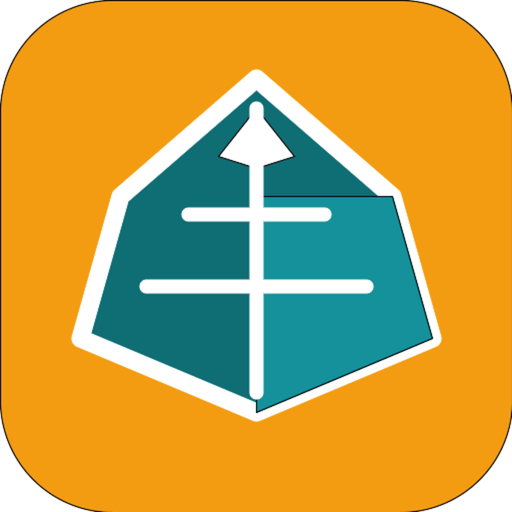
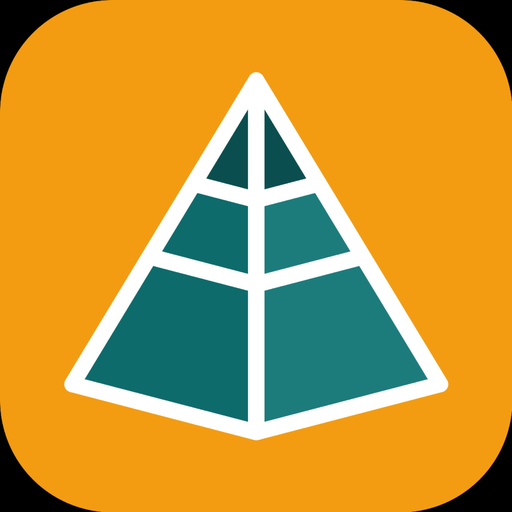
Show the official pyramid on every ground and unclip the phone header.
Tiles match the night, paper, teal, orange, and outline marks. Header no longer paints a second dark chip over the white stroke. Desk pages hide the marketing nav on a phone so Sign in, Auto, and the tab bar stay tappable.

diff --git a/ui-fix.css b/ui-fix.css
@@ -716,11 +716,12 @@ header .site-nav a {
 header .brand-mark,
 .site-header .brand-mark,
 #desk-nav .brand-mark {
-  object-fit: contain !important;
-  background: #083838 !important;
-  box-shadow: 0 0 0 1px rgba(255,255,255,.7) !important;
+  object-fit: cover !important;
+  background: transparent !important;
+  box-shadow: none !important;
   border-radius: 22% !important;
 }
+/* Official tile already has its ground. A second dark chip hid the white stroke. */
 @media (max-width: 859px) {
   header,
   .site-header {
@@ -736,3 +737,57 @@ header .brand-mark,
     border: 1px solid rgba(255,255,255,.55) !important;
   }
 }
+
+
+/* 2026-10-07 phone + desktop visibility and tap pass */
+header nav.site-nav,
+header .nav.site-nav {
+  flex-wrap: nowrap !important;
+  overflow-x: auto !important;
+  scrollbar-width: none;
+}
+header nav.site-nav::-webkit-scrollbar { display: none; }
+@media (max-width: 859px) {
+  body.has-desk-nav header nav.site-nav,
+  body.has-desk-nav header .nav.site-nav,
+  body:has(#desk-nav) header nav.site-nav {
+    display: none !important;
+  }
+  body.has-desk-nav header,
+  body:has(#desk-nav) header {
+    grid-template-areas: "brand tools" !important;
+    grid-template-rows: auto !important;
+  }
+  header nav.site-nav a,
+  header .site-nav a {
+    flex: 0 0 auto !important;
+    min-height: 44px !important;
+    color: #fff !important;
+  }
+  .who-chip, header .theme-btn {
+    position: relative;
+    z-index: 5;
+  }
+  #desk-nav a, #desk-nav button {
+    color: #e8ffff !important;
+    font-size: 12px !important;
+    min-width: 0;
+  }
+  #desk-nav {
+    padding-bottom: env(safe-area-inset-bottom, 0px);
+  }
+}
+img.aia-mark[data-mark="outline"],
+img.brand-mark[data-mark="outline"] {
+  background: #fff !important;
+}
+button.go, a.go, .go, a.primary, button.primary, .use {
+  color: #0c1116 !important;
+}
+html.dark .card, html.dark .item, html.dark .sheet-card {
+  color: #f3f7f8;
+}
+.sheet, .modal, [role="dialog"] {
+  max-width: min(560px, calc(100vw - 24px));
+}
+table { display: block; max-width: 100%; overflow-x: auto; }

diff --git a/theme.js b/theme.js
@@ -149,7 +149,7 @@
       "header:not(.top), .site-header{background:var(--header)!important;color:#fff!important;padding:10px 4.5vw!important;padding-top:calc(10px + env(safe-area-inset-top,0px))!important;}" +
       "header, .site-header{display:grid!important;align-items:center!important;overflow:visible!important}" +
       "header .theme-btn, .theme-btn{position:relative;z-index:8;pointer-events:auto!important;flex:0 0 auto;min-height:44px;min-width:4.6em;padding:6px 12px;cursor:pointer;white-space:nowrap}" +
-      "header .brand-mark, .site-header .brand-mark{width:40px;height:40px;flex:0 0 40px;border-radius:22%;background:transparent;object-fit:cover}" +
+      "header .brand-mark, .site-header .brand-mark{width:40px;height:40px;flex:0 0 40px;border-radius:22%;background:transparent!important;object-fit:cover;box-shadow:none}" +
       ".hdr-tools{display:flex!important;align-items:center;gap:8px;margin-left:0;flex:0 0 auto;justify-self:end;max-width:100%}" +
       "header > .brand, .site-header > .brand, header > a.brand, header > a:first-child{min-width:0;display:inline-flex!important;align-items:center;gap:8px;color:#fff!important}" +
       "header nav.site-nav, header .nav.site-nav, header nav:not(.desk-tabs), header .nav:not(.desk-tabs), .site-header .nav{width:auto;min-width:0;display:flex!important;flex-wrap:nowrap;overflow-x:auto;gap:10px 14px;align-items:center;-webkit-overflow-scrolling:touch}" +
